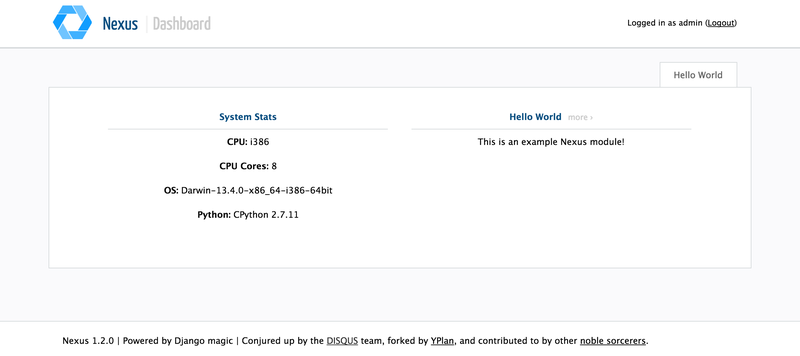
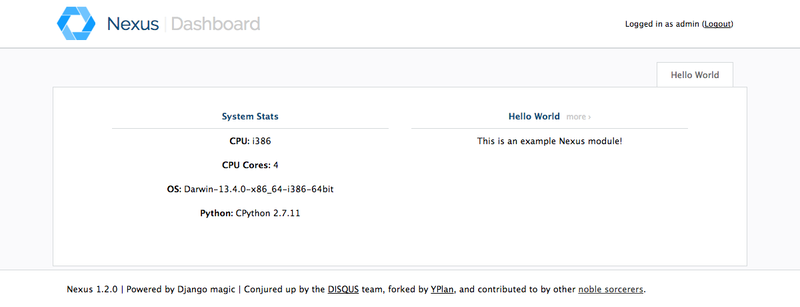
New header font
This makes the new design even better... imo.

diff --git a/nexus/media/css/nexus.css b/nexus/media/css/nexus.css
@@ -84,7 +84,7 @@ fieldset h2 {
 }
 
 #header h1, #header h2 {
-    font-family: 'Yanone Kaffeesatz', arial, serif;
+    font-family: 'Raleway', arial, sans-serif;
     color: #084e80;
     display: inline;
     font-size: 20pt;
@@ -93,10 +93,9 @@ fieldset h2 {
 
 #header h1 {
     margin: -5px 0 -10px;
-    padding: 5px 0 10px;
+    padding: 5px 0 5px 60px;
     background-repeat: no-repeat;
     background-position: top middle;
-    padding-left: 60px;
 }
 
 #header h1 img {
@@ -110,7 +109,6 @@ fieldset h2 {
 }
 
 #header h2 {
-    margin-left: 5px;
     color: #ccc;
 }
 

diff --git a/nexus/templates/nexus/base.html b/nexus/templates/nexus/base.html
@@ -8,7 +8,7 @@
 
         <link rel="stylesheet" href="{% nexus_media_prefix %}/nexus/css/nexus.css">
         <link rel="stylesheet" href="{% nexus_media_prefix %}/nexus/css/facebox.css">
-        <link href='//fonts.googleapis.com/css?family=Yanone+Kaffeesatz:light,regular&amp;subset=latin' rel='stylesheet'>
+        <link href='//fonts.googleapis.com/css?family=Raleway:light,regular&amp;subset=latin' rel='stylesheet'>
         <link href='//fonts.googleapis.com/css?family=Inconsolata' rel='stylesheet'>
 
         <meta name="robots" content="NONE,NOARCHIVE">
